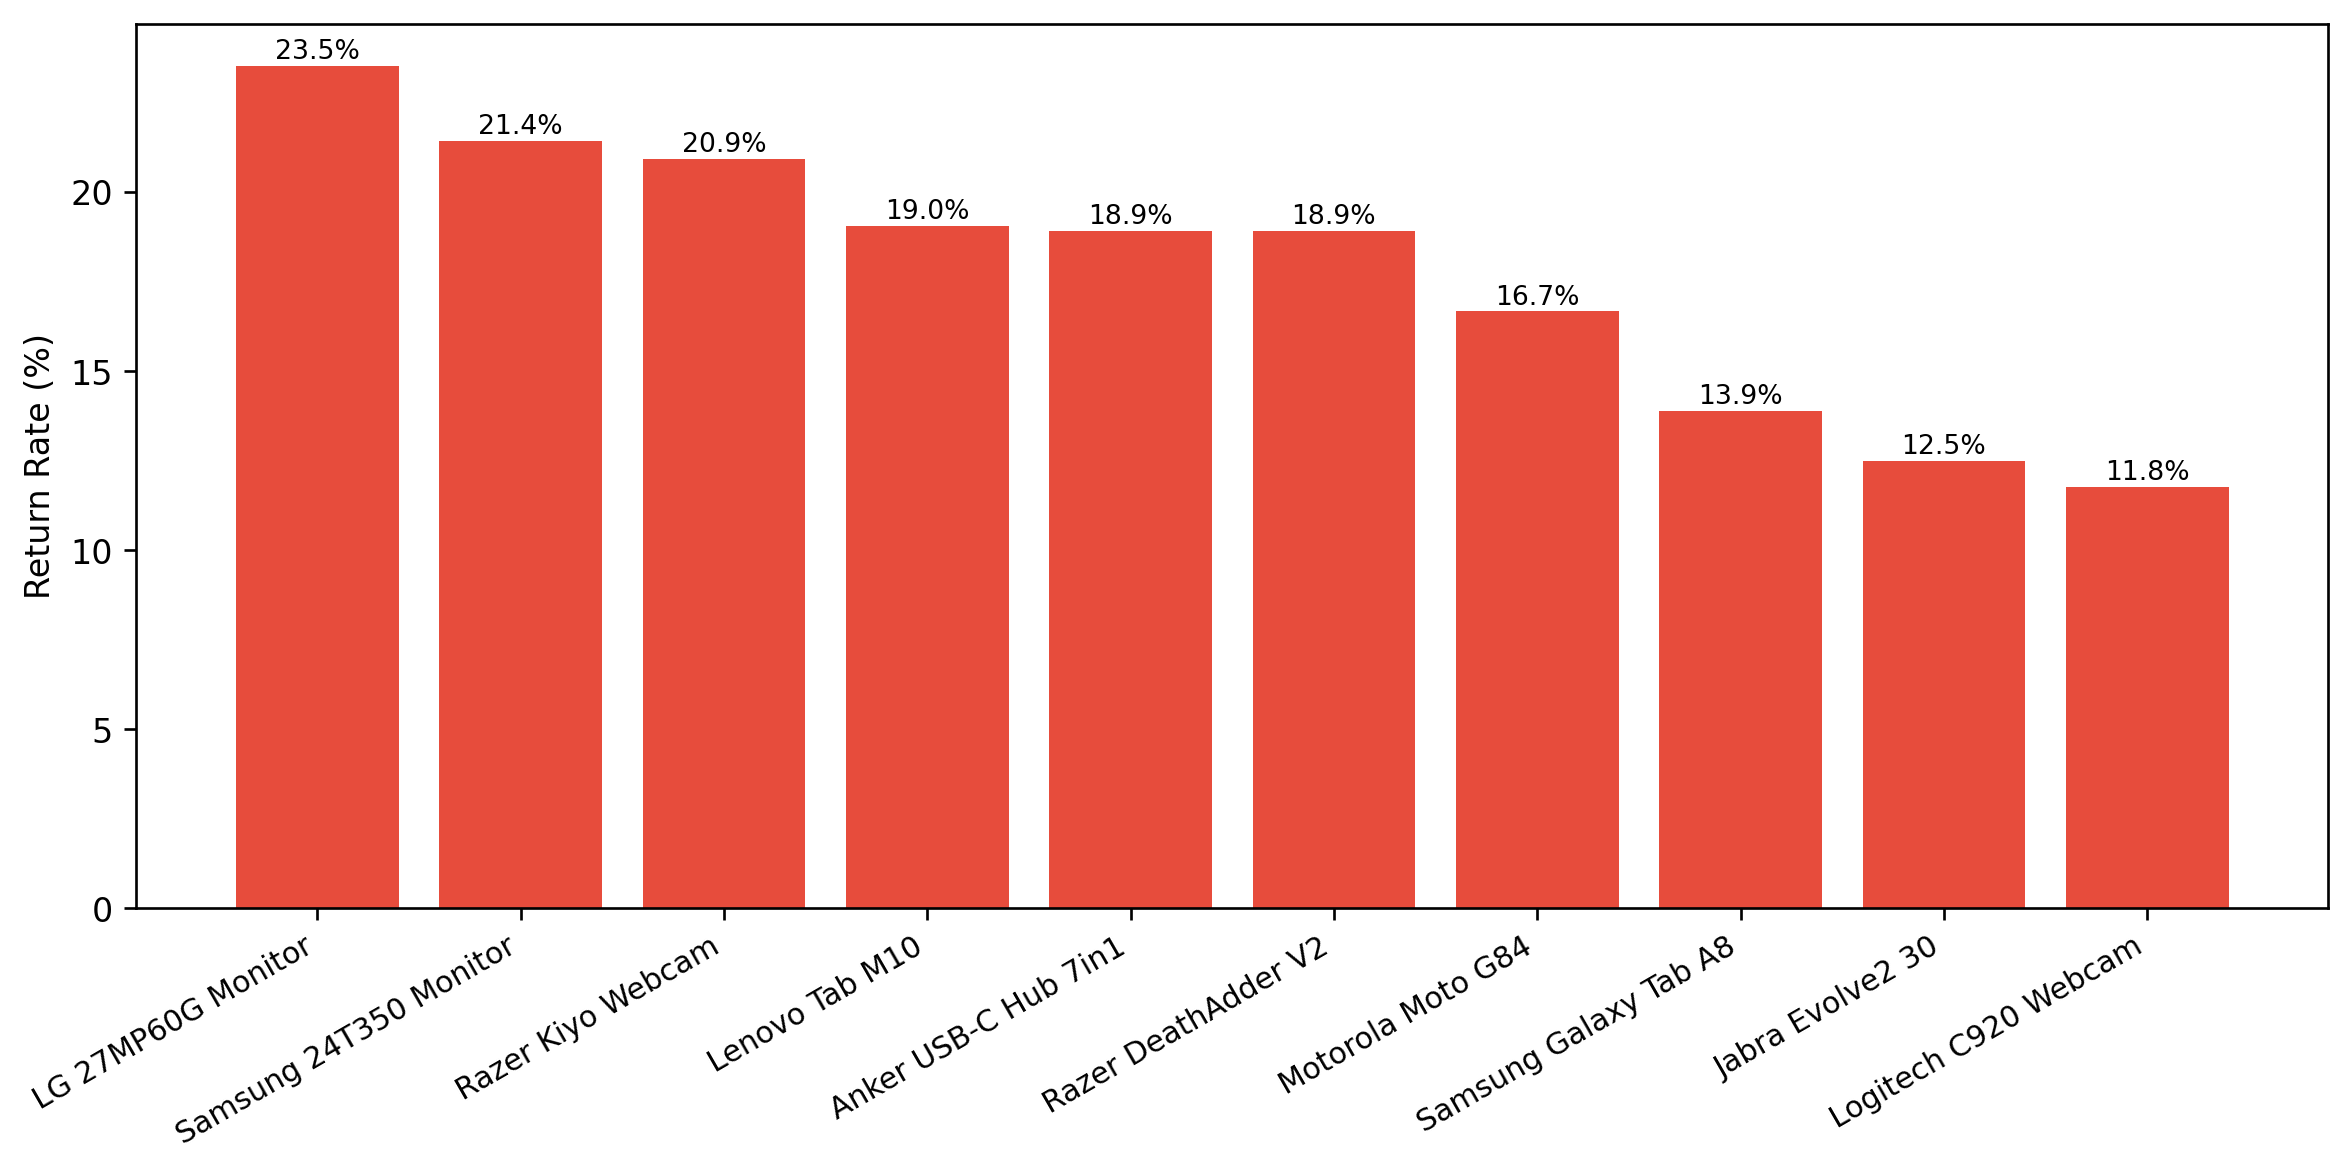
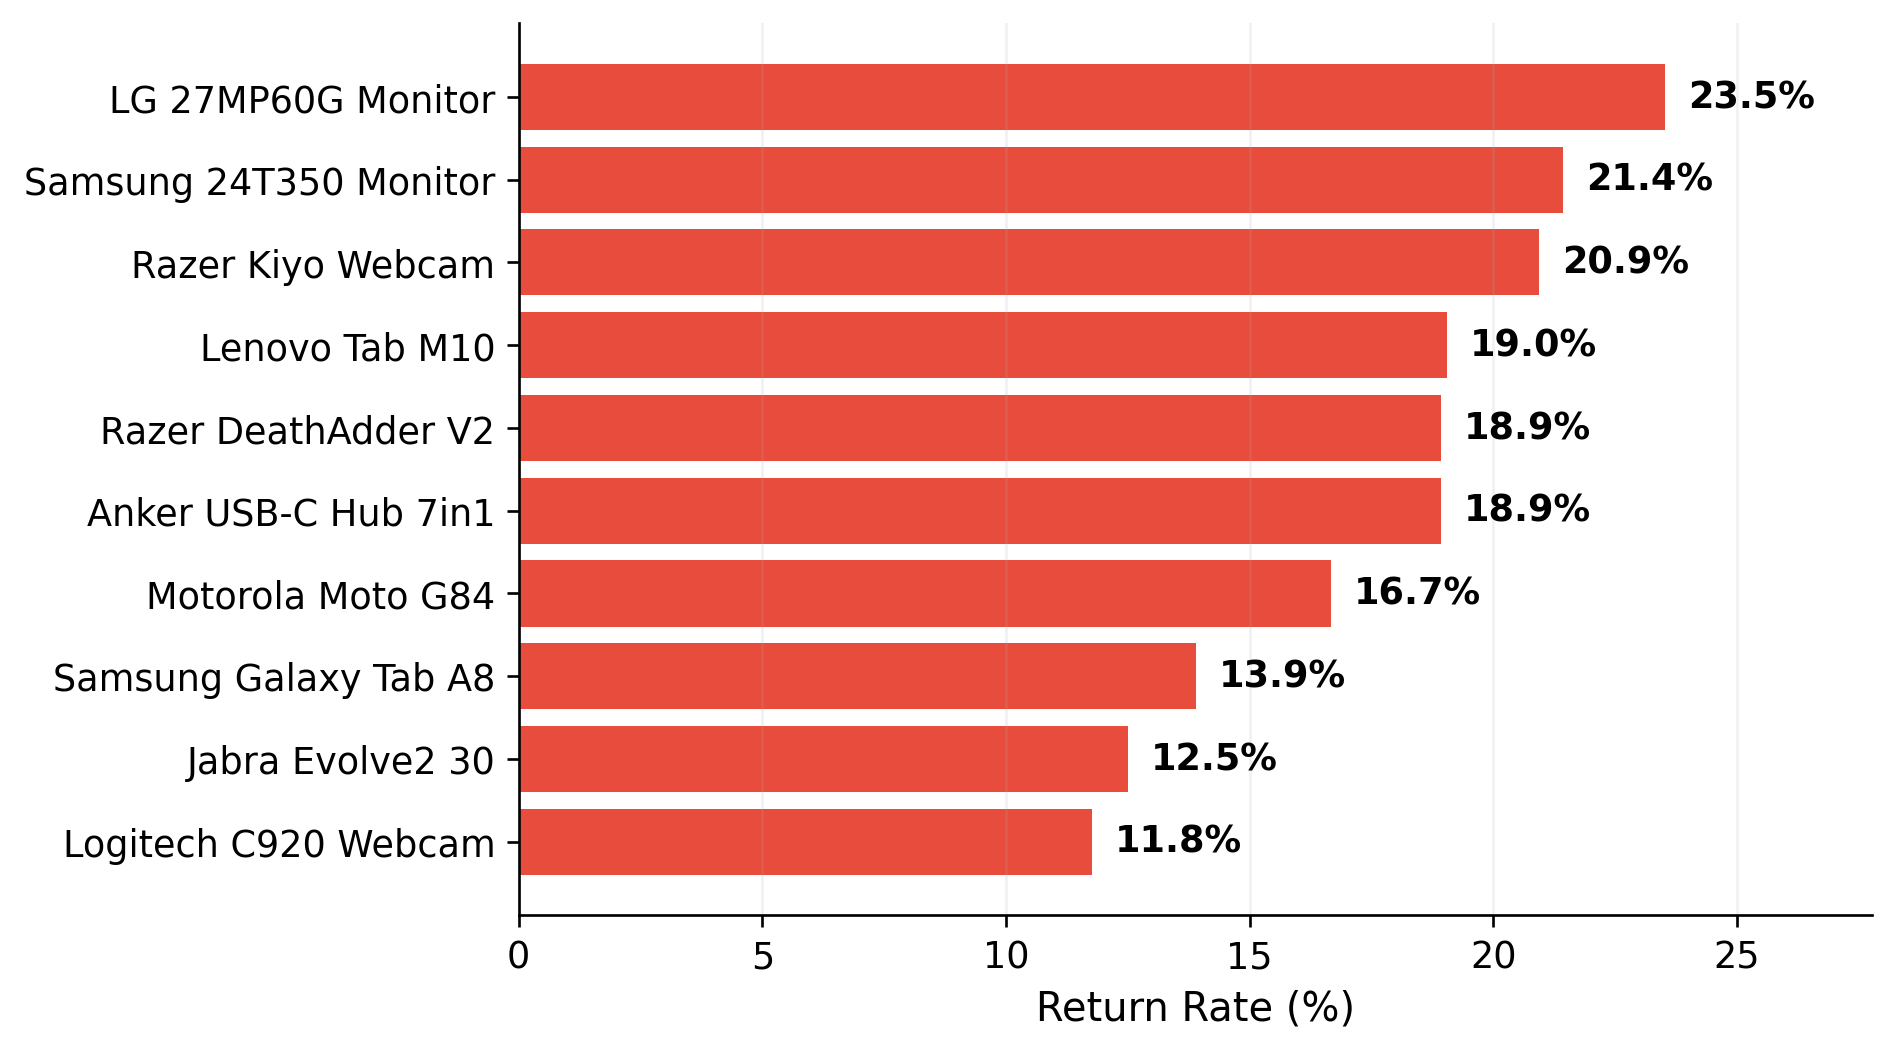
vela zmien obrazky, html, css

diff --git a/index.html b/index.html
@@ -110,7 +110,7 @@
             </tr>
         </tbody>
     </table>
-    <div class="charts-grid">
+    <div class="charts-grid marketplace-charts">
         <div class="chart-placeholder">
             <h3>Revenue by Marketplace</h3>
             <img src="cleaned_data/08_revenue_by_marketplace.png"
@@ -166,19 +166,15 @@
             based on revenue, units sold, profit margin, and return behavior.
         </p>
 
-        <div class="charts-grid">
-
+        <div class="chart-hero">
             <div class="chart-placeholder">
                 <h3>Top Products by Revenue</h3>
                 <img src="cleaned_data/03_top_products.png"
                 alt="Top Products by Revenue">
             </div>
+        </div>
 
-            <div class="chart-placeholder">
-                <h3>Low Margin Products</h3>
-                <img src="cleaned_data/04_low_margin_products.png"
-                alt="Low Margin Products">
-            </div>
+        <div class="charts-grid">
 
             <div class="chart-placeholder">
                 <h3>Top Products by Return Rate</h3>
@@ -186,10 +182,15 @@
                 alt="Top Products by Return Rate">
             </div>
 
-            <div class="chart-placeholder">
-                <h3>Top Products by Units Sold</h3>
-                <img src="cleaned_data/15_units_sold_by_product.png"
-                alt="Top Products by Units Sold">
+            <div class="insight-box">
+            <h3>Product Insights</h3>
+
+                <ul>
+                    <li>HP Pavilion 15 generated the strongest product-level revenue.</li>
+                    <li>LG 27MP60G Monitor showed the highest return rate risk.</li>
+                    <li>Samsung products appeared consistently across multiple rankings.</li>
+                    <li>Revenue concentration suggests dependency on a small product subset.</li>
+                </ul>
             </div>
 
         </div>

diff --git a/style.css b/style.css
@@ -66,16 +66,25 @@ tr:hover {
 .chart-placeholder {
     border: 2px dashed #bdbdbd;
     border-radius: 12px;
-    padding: 24px;
+    padding: 8px;
     background-color: #f8f8f8;
     margin-bottom: 16px;
 }
 
 .chart-placeholder img {
     width: 100%;
+    max-height: 340px;
     height: auto;
+    object-fit: contain;
     display: block;
     border-radius: 8px;
+}
+
+.marketplace-charts {
+    grid-template-columns: 0.9fr 0.9fr;
+    max-width: 1500px;
+    margin-left: auto;
+    margin-right: auto;
 }
 
 .chart-hero {
@@ -86,6 +95,7 @@ tr:hover {
 .chart-hero img {
     width: 100%;
     border-radius: 10px;
+    max-height: 480px;
 }
 
 .insight-box {

diff --git a/main.py b/main.py
@@ -86,20 +86,29 @@ print("✓ 02_revenue_by_country.png")
 
 # === 3. TOP PRODUCTS ===
 top_products = df.groupby("name")["revenue"].sum().sort_values(ascending=False).head(10)
-fig, ax = plt.subplots(figsize=(10, 5))
-bars = ax.bar(range(len(top_products)), top_products.to_numpy(), color="#0d3b47")
-ax.set_xticks(range(len(top_products)))
-ax.set_xticklabels(top_products.index, rotation=30, ha="right", fontsize=9)
-# ax.set_title("Top 10 Products by Revenue", fontsize=16, fontweight="bold")
-ax.set_ylabel("Total Revenue (EUR)")
+fig, ax = plt.subplots(figsize=(13, 4.8))
+
+top_products = top_products.sort_values(ascending=True)
+bars = ax.barh(top_products.index, top_products.to_numpy(), color="#0d3b47")
+
+ax.set_xlabel("Total Revenue (EUR)", fontsize=13)
+ax.set_xlim(0, top_products.max() * 1.15)
+ax.tick_params(axis="both", labelsize=12)
+ax.grid(axis="x", alpha=0.18)
+
+ax.spines["top"].set_visible(False)
+ax.spines["right"].set_visible(False)
+
 for bar, val in zip(bars, top_products.to_numpy()):
     ax.text(
-        bar.get_x() + bar.get_width() / 2,
-        bar.get_height() + 200,
+        val + top_products.max() * 0.02,
+        bar.get_y() + bar.get_height() / 2,
         f"€{val:,.0f}",
-        ha="center",
-        fontsize=8,
+        va="center",
+        fontsize=12,
+        fontweight="bold",
     )
+
 plt.tight_layout()
 plt.savefig("cleaned_data/03_top_products.png", dpi=240, bbox_inches="tight")
 plt.close()
@@ -157,20 +166,29 @@ print("✓ 05_return_rate_by_country.png")
 # === 6. RETURN RATE BY PRODUCT ===
 return_product = df.groupby("name")["returned"].mean() * 100
 return_product = return_product.sort_values(ascending=False).head(10)
-fig, ax = plt.subplots(figsize=(10, 5))
-bars = ax.bar(range(len(return_product)), return_product.to_numpy(), color="#e74c3c")
-ax.set_xticks(range(len(return_product)))
-ax.set_xticklabels(return_product.index, rotation=30, ha="right", fontsize=9)
-# ax.set_title("Top 10 Products by Return Rate", fontsize=16, fontweight="bold")
-ax.set_ylabel("Return Rate (%)")
+fig, ax = plt.subplots(figsize=(8, 4.5))
+
+return_product = return_product.sort_values(ascending=True)
+bars = ax.barh(return_product.index, return_product.to_numpy(), color="#e74c3c")
+
+ax.set_xlabel("Return Rate (%)", fontsize=12)
+ax.set_xlim(0, return_product.max() * 1.18)
+ax.tick_params(axis="both", labelsize=11)
+ax.grid(axis="x", alpha=0.18)
+
+ax.spines["top"].set_visible(False)
+ax.spines["right"].set_visible(False)
+
 for bar, val in zip(bars, return_product.to_numpy()):
     ax.text(
-        bar.get_x() + bar.get_width() / 2,
-        bar.get_height() + 0.2,
+        val + return_product.max() * 0.02,
+        bar.get_y() + bar.get_height() / 2,
         f"{val:.1f}%",
-        ha="center",
-        fontsize=8,
+        va="center",
+        fontsize=11,
+        fontweight="bold",
     )
+
 plt.tight_layout()
 plt.savefig("cleaned_data/06_return_rate_by_product.png", dpi=240, bbox_inches="tight")
 plt.close()
@@ -178,41 +196,66 @@ print("✓ 06_return_rate_by_product.png")
 
 # === 7. MONTHLY TREND ===
 monthly = df.groupby("month")["revenue"].sum()
+month_labels = monthly.index.strftime("%b")
 fig, ax = plt.subplots(figsize=(11, 5))
 ax.plot(
-    monthly.index.astype(str),
+    month_labels,
     monthly.to_numpy(),
     marker="o",
     color="#2aa8cc",
-    linewidth=2.8,
-    markersize=7,
+    linewidth=3.2,
+    markersize=8,
 )
 ax.fill_between(
-    monthly.index.astype(str), monthly.to_numpy(), alpha=0.2, color="#2aa8cc"
+    month_labels, monthly.to_numpy(), alpha=0.12, color="#2aa8cc"
 )
 ax.set_ylabel("Revenue (EUR)", fontsize=12)
-ax.set_xlabel("Month", fontsize=12)
+ax.set_xlabel("2024", fontsize=12)
 ax.tick_params(axis="both", labelsize=11)
+ax.grid(axis="y", alpha=0.18)
 ax.set_ylim(10000, monthly.max() * 1.08)
-plt.xticks(rotation=45)
+ax.grid(axis="y", alpha=0.18)
+ax.spines["top"].set_visible(False)
+ax.spines["right"].set_visible(False)
+plt.xticks(rotation=0)
 for i, val in enumerate(monthly.to_numpy()):
-    ax.text(i, val + 400, f"€{val:,.0f}", ha="center", fontsize=9)
+    ax.text(
+        i,
+        val + 400,
+        f"€{val:,.0f}",
+        ha="center",
+        fontsize=12,
+        fontweight="bold",
+    )
 plt.tight_layout()
 plt.savefig("cleaned_data/07_monthly_trend.png", dpi=240, bbox_inches="tight")
 plt.close()
 
 # === 8. REVENUE BY MARKETPLACE ===
 rev_market = df.groupby("marketplace")["revenue"].sum().sort_values(ascending=False)
-fig, ax = plt.subplots(figsize=(6, 5))
+fig, ax = plt.subplots(figsize=(8, 4.5))
 colors = ["#FF9900", "#0057e7", "#00A650"]
-wedges, texts, autotexts = ax.pie(
-    rev_market.to_numpy(),
-    labels=rev_market.index,
-    autopct="%1.1f%%",
-    colors=colors,
-    startangle=90,
-)
-# ax.set_title("Revenue by Marketplace", fontsize=16, fontweight="bold")
+
+bars = ax.barh(rev_market.index, rev_market.to_numpy(), color=colors)
+
+ax.set_xlabel("Total Revenue (EUR)", fontsize=12)
+ax.set_xlim(0, rev_market.max() * 1.15)
+ax.tick_params(axis="both", labelsize=11)
+ax.grid(axis="x", alpha=0.18)
+
+ax.spines["top"].set_visible(False)
+ax.spines["right"].set_visible(False)
+
+for bar, val in zip(bars, rev_market.to_numpy()):
+    ax.text(
+        val + rev_market.max() * 0.02,
+        bar.get_y() + bar.get_height() / 2,
+        f"€{val:,.0f}",
+        va="center",
+        fontsize=11,
+        fontweight="bold",
+    )
+
 plt.tight_layout()
 plt.savefig("cleaned_data/08_revenue_by_marketplace.png", dpi=240, bbox_inches="tight")
 plt.close()
@@ -220,7 +263,7 @@ print("✓ 08_revenue_by_marketplace.png")
 
 # === 9. REVENUE BY CATEGORY ===
 rev_cat = df.groupby("category")["revenue"].sum().sort_values(ascending=True)
-fig, ax = plt.subplots(figsize=(13, 6))
+fig, ax = plt.subplots(figsize=(13, 4.8))
 bars = ax.barh(rev_cat.index, rev_cat.to_numpy(), color="#1b4332")
 # ax.set_title("Revenue by Category", fontsize=16, fontweight="bold")
 ax.set_xlabel("Total Revenue (EUR)", fontsize=13)
@@ -333,28 +376,39 @@ print("✓ 13_orders_by_country.png")
 
 # === 14. MONTHLY ORDERS TREND ===
 monthly_orders = df.groupby("month")["order_id"].count()
+month_labels = monthly_orders.index.strftime("%b")
 fig, ax = plt.subplots(figsize=(11, 5))
 ax.plot(
-    monthly_orders.index.astype(str),
+    month_labels,
     monthly_orders.to_numpy(),
     marker="o",
     color="#e67e22",
-    linewidth=2.8,
-    markersize=7,
+    linewidth=3.2,
+    markersize=8,
 )
 ax.fill_between(
-    monthly_orders.index.astype(str),
+    month_labels,
     monthly_orders.to_numpy(),
-    alpha=0.2,
+    alpha=0.12,
     color="#e67e22",
 )
 ax.set_ylabel("Number of Orders", fontsize=12)
-ax.set_xlabel("Month", fontsize=12)
+ax.set_xlabel("2024", fontsize=12)
 ax.tick_params(axis="both", labelsize=11)
+ax.grid(axis="y", alpha=0.18)
+ax.spines["top"].set_visible(False)
+ax.spines["right"].set_visible(False)
 ax.set_ylim(40, monthly_orders.max() * 1.08)
-plt.xticks(rotation=45)
+plt.xticks(rotation=0)
 for i, val in enumerate(monthly_orders.to_numpy()):
-    ax.text(i, val + 1, str(val), ha="center", fontsize=9)
+    ax.text(
+        i,
+        val + 1,
+        str(val),
+        ha="center",
+        fontsize=12,
+        fontweight="bold"
+    )
 plt.tight_layout()
 plt.savefig("cleaned_data/14_monthly_orders_trend.png", dpi=240, bbox_inches="tight")
 plt.close()
@@ -386,18 +440,22 @@ print("✓ 15_units_sold_by_product.png")
 orders_market = (
     df.groupby("marketplace")["order_id"].count().sort_values(ascending=False)
 )
-fig, ax = plt.subplots(figsize=(7, 5))
+fig, ax = plt.subplots(figsize=(8, 4.5))
 colors = ["#FF9900", "#0057e7", "#00A650"]
 bars = ax.bar(orders_market.index, orders_market.to_numpy(), color=colors)
 # ax.set_title("Number of Orders by Marketplace", fontsize=16, fontweight="bold")
-ax.set_ylabel("Number of Orders")
+ax.set_ylabel("Number of Orders", fontsize=12)
+ax.tick_params(axis="both", labelsize=11)
+ax.grid(axis="y", alpha=0.18)
+ax.spines["top"].set_visible(False)
+ax.spines["right"].set_visible(False)
 for bar, val in zip(bars, orders_market.to_numpy()):
     ax.text(
         bar.get_x() + bar.get_width() / 2,
         bar.get_height() + 1,
         str(val),
         ha="center",
-        fontsize=12,
+        fontsize=13,
         fontweight="bold",
     )
 plt.tight_layout()
